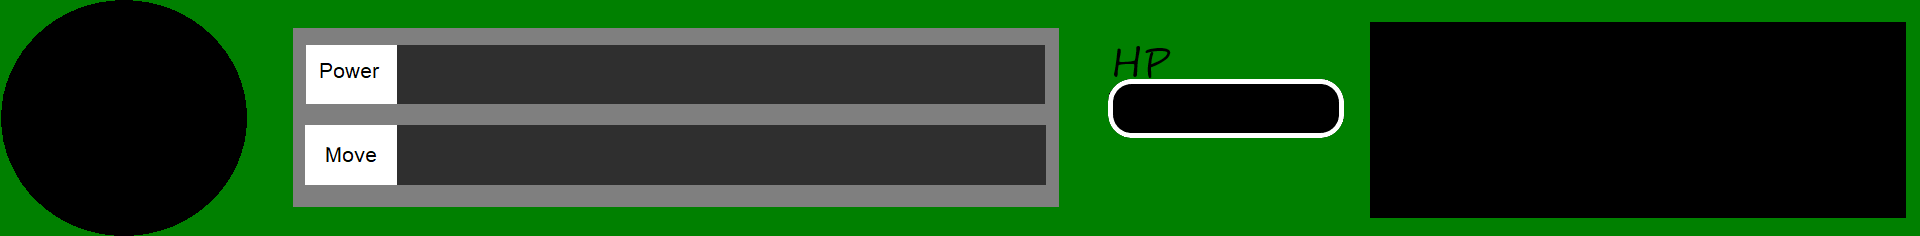
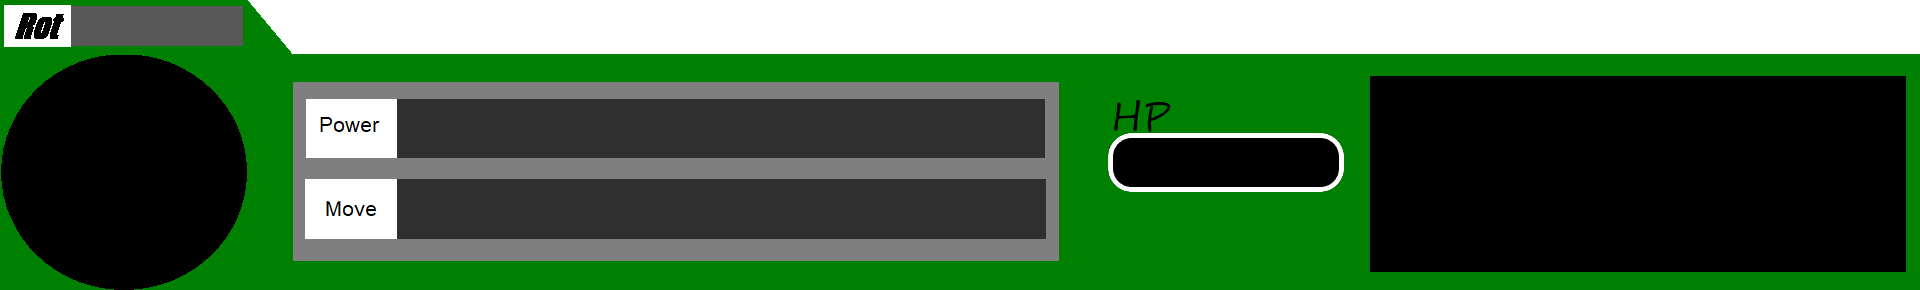
각도 텍스트 추가

diff --git a/Space/Player.cpp b/Space/Player.cpp
@@ -4,7 +4,7 @@
 Player::Player()
                                                                                                                                                                                                                                                                                                                                                                                                                                                                                                                                                                                                                                                                                                                                                                                                                                                                                                                                                                                                                                                                                                                                                                                                                                                                                                                                                                                                                                                                                                                                                                                                                                                                                                                 {
 	m_MainPanel = Sprite::Create(L"Painting/UI/MainPanel.png");
-	m_MainPanel->SetPosition(1920 / 2, 970);
+	m_MainPanel->SetPosition(1920 / 2, 939);
 
 	ObjMgr->AddObject(m_MainPanel, "UI");
 
@@ -32,6 +32,10 @@ Player::Player()
 	ObjMgr->AddObject(m_BarrelRot, "UI");
 	ObjMgr->AddObject(m_MaxRot, "UI");
 	ObjMgr->AddObject(m_MinRot, "UI");
+
+	m_RotationText = new TextMgr();
+	m_RotationText->Init(32, false, true, "Impact");
+	m_RotationText->SetColor(255, 0, 0, 0);
 
 
 	m_Power = 0;
@@ -103,4 +107,8 @@ void Player::Render()
 		m_HpBar->m_Position.x + m_HpBar->m_Size.x / 2, m_HpBar->m_Position.y + m_HpBar->m_Size.y / 2);
 
 	m_HpBar->m_Rect.right = m_HpBar->m_Size.x - (Hp * m_HpGage);
+
+	Renderer::GetInst()->GetSprite()->Begin(D3DXSPRITE_ALPHABLEND);
+	m_RotationText->print(std::to_string(abs((int)(D3DXToDegree(m_Barrel)))), 100,800);
+	Renderer::GetInst()->GetSprite()->End();
 }

diff --git a/Space/SceneDirector.cpp b/Space/SceneDirector.cpp
@@ -26,22 +26,21 @@ void SceneDirector::Update(float deltaTime, float time)
 	Input::GetInst()->Update();
 	Camera::GetInst()->Update(deltaTime, time);
 
-	if (GameMgr::GetInst()->m_isPlayer)
-		Player::GetInst()->Update(deltaTime, time);
 
 	ObjMgr->Update(deltaTime,time);
 	
 	if (m_CurrentScene)
 		m_CurrentScene->Update(deltaTime,time);
+	if (GameMgr::GetInst()->m_isPlayer)
+		Player::GetInst()->Update(deltaTime, time);
 
 }
 
 void SceneDirector::Render()
 {
-	if (GameMgr::GetInst()->m_isPlayer)
-		Player::GetInst()->Render();
 	if (m_CurrentScene)
 		m_CurrentScene->Render();
 	ObjMgr->Render();
-	
+	if (GameMgr::GetInst()->m_isPlayer)
+		Player::GetInst()->Render();
 }

diff --git a/Space/SPG.cpp b/Space/SPG.cpp
@@ -22,9 +22,6 @@ SPG::SPG(Vec2 pos)
 	m_isGround = false;
 	m_Speed = 300;
 
-	m_Text = new TextMgr();
-	m_Text->Init(32, true, false, "Arial");
-
 	m_MaxRot = D3DXToRadian(-90);
 	m_MinRot = 0;
 
@@ -62,10 +59,6 @@ void SPG::Render()
 	m_Barrel->Render();
 	m_FrontFootPos->Render();
 	m_BackFootPos->Render();
-
-	Renderer::GetInst()->GetSprite()->Begin(D3DXSPRITE_ALPHABLEND);
-	m_Text->print(std::to_string(INPUT->GetMousePos().x) + "  " + std::to_string(INPUT->GetMousePos().y), 0, 0);
-	Renderer::GetInst()->GetSprite()->End();
 }
 
 void SPG::OnCollision(Object* other)

diff --git a/Space/TextMgr.cpp b/Space/TextMgr.cpp
@@ -49,7 +49,7 @@ int TextMgr::print(const std::string& str, int x, int y)
 	Vec2 rCenter = Vec2((float)x,(float)y);
 	D3DXMatrixTransformation2D(&m_wMat, NULL, 0.0f, NULL, &rCenter, m_Angle, NULL);
 	Renderer::GetInst()->GetSprite()->SetTransform(&m_wMat);
-	return m_pFont->DrawTextA(Renderer::GetInst()->GetSprite(),str.c_str(),-1,&m_FontRect,DT_LEFT,m_Color);
+	return m_pFont->DrawTextA(Renderer::GetInst()->GetSprite(),str.c_str(),-1,&m_FontRect,DT_TOP,m_Color);
 }
 
 void TextMgr::SetColor(int a, int r, int g, int b)

diff --git a/Space/Beak.cpp b/Space/Beak.cpp
@@ -12,7 +12,7 @@ Beak::Beak()
 	m_SKY->SetParent(this);
 	m_SKY->SetPosition(1920 / 2,1080 / 2);
 
-	ObjMgr->AddObject(m_SKY, "BG");
+	//ObjMgr->AddObject(m_SKY, "BG");
 	//ObjMgr->AddObject(m_BG, "BG");
 	
 	ObjMgr->AddObject(new SPG(Vec2(0, 0)), "Tank");

diff --git a/Space/SPG.h b/Space/SPG.h
@@ -5,7 +5,6 @@ class SPG : public Object
 	Sprite* m_Barrel;
 	Sprite* m_FrontFootPos;
 	Sprite* m_BackFootPos;
-	TextMgr* m_Text;
 
 public:
 	SPG(Vec2 pos);

diff --git a/Space/Player.h b/Space/Player.h
@@ -13,6 +13,8 @@ public:
 	Sprite* m_MinRot;
 	Sprite* m_MaxRot;
 
+	TextMgr* m_RotationText;
+
 	Player();
 	~Player();
 
